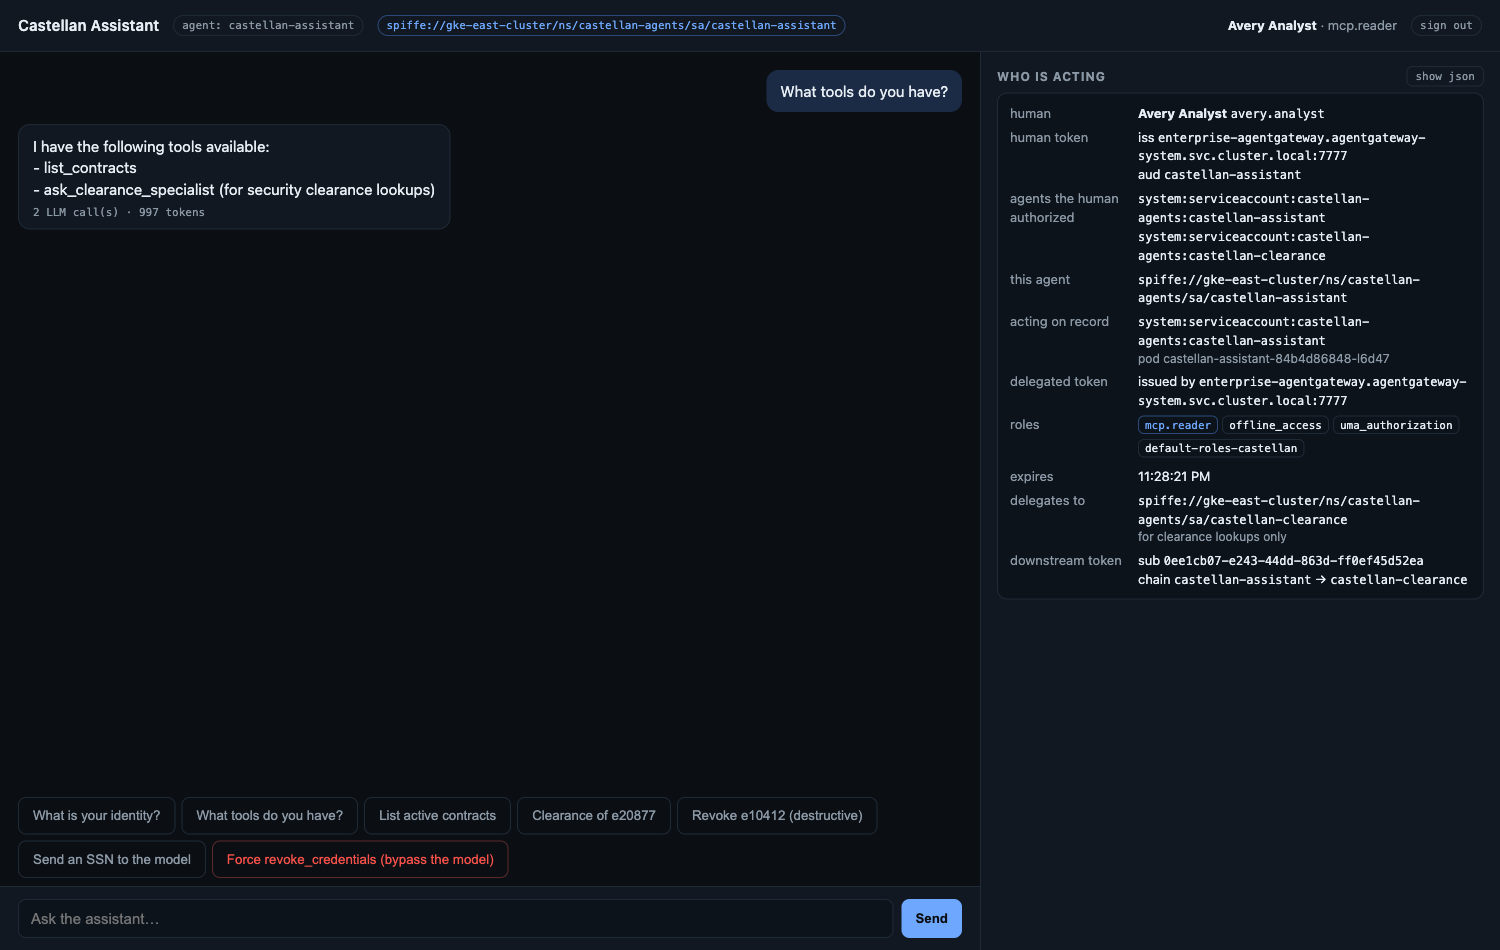
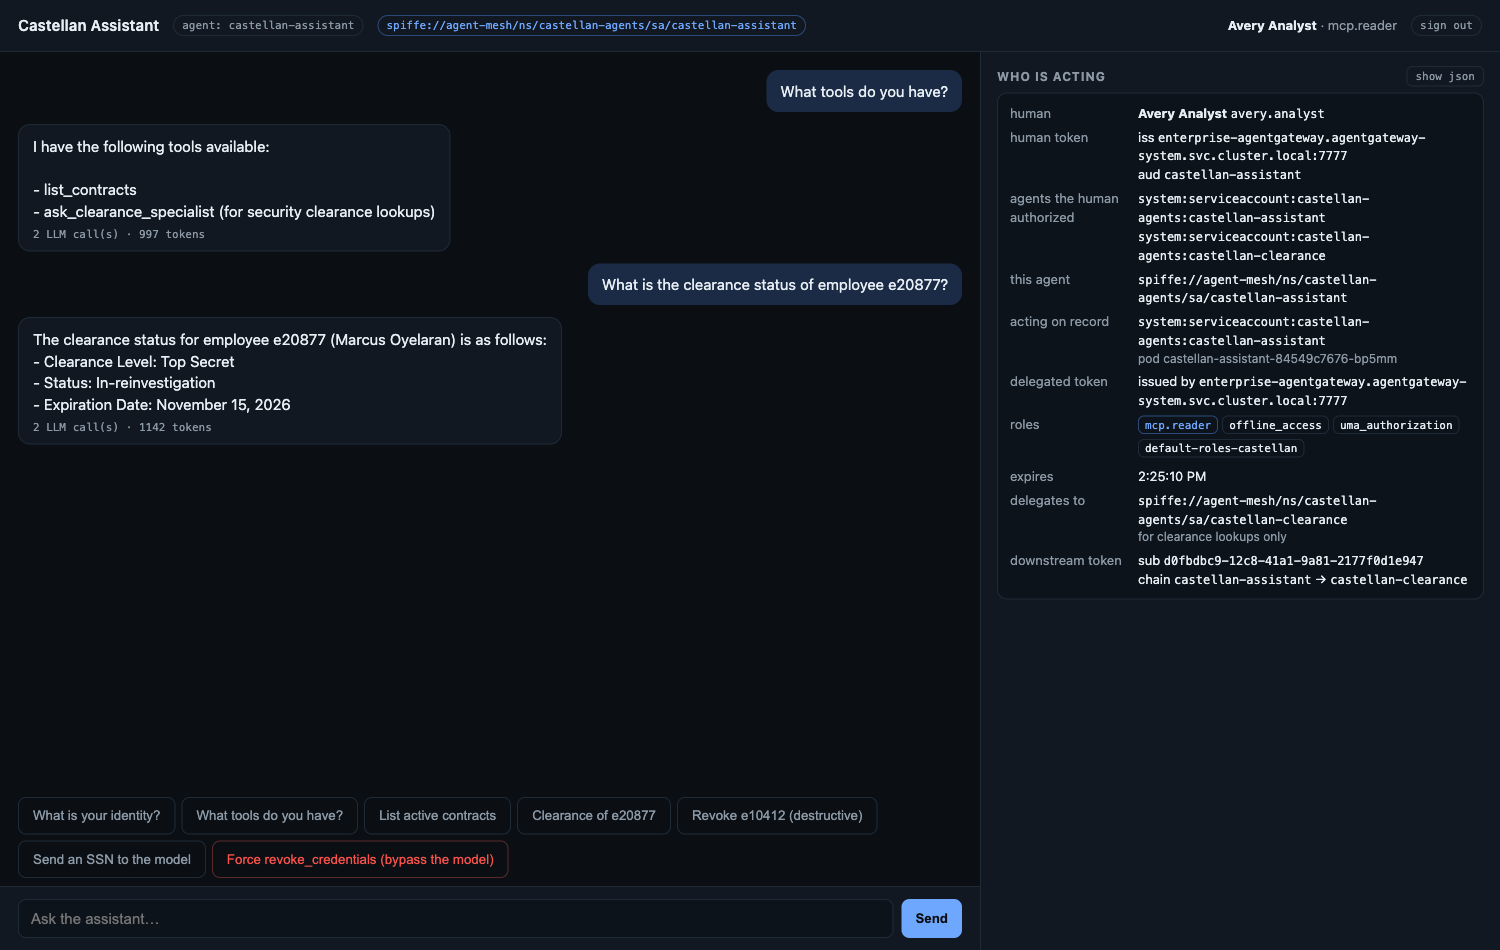
Screenshots from a fresh kind install; service graph

diff --git a/README.md b/README.md
@@ -40,13 +40,11 @@ watch the effect in the browser.
 | ![Budget exhausted in the chat](docs/screenshot-chat-budget-429.png) | ![Creating a budget in the Solo UI](docs/screenshot-solo-ui-create-budget.png) |
 | **Budget spent.** Once the agent's token budget is used up, LLM calls get a 429. | **Budgets in the Solo UI.** A per-agent token budget is a form in Cost Management. |
 | ![Cost Management dashboard](docs/screenshot-solo-ui-cost-management.png) | ![Tracing list in the Solo UI](docs/screenshot-solo-ui-tracing.png) |
-| **Cost tracking.** Cost Management counts tokens, requests and estimated spend for every LLM call. | **Every call traced.** The waypoints record each MCP and LLM call. |
+| **Cost tracking.** Cost Management counts tokens, requests and estimated spend for every LLM call, using the demo's inflated model prices. | **Every call traced.** The waypoints record each MCP and LLM call. |
 | ![One span with workload, user and agent](docs/screenshot-solo-ui-trace-detail.png) | ![A span showing the agent chain](docs/screenshot-v3-trace-chain.png) |
-| **Who did what.** One span carries the workload identity, the user, the agent and the tool. | **Agent-to-agent.** The clearance lookup's span shows the chain: assistant, then specialist. |
-| ![Prompt and completion on an LLM span](docs/screenshot-solo-ui-trace-prompt.png) | |
-| **What was asked.** LLM spans carry the prompt and the completion text. | |
-
-Some screenshots come from an earlier version of the chat UI with extra panels on the right. The behavior is the same.
+| **Who did what.** One span carries the workload identity, the user, the agent and the tool. | **Agent-to-agent.** The clearance lookup is called by the specialist (`src.identity`), for the user, with the agent chain recorded on the span. |
+| ![Prompt and completion on an LLM span](docs/screenshot-solo-ui-trace-prompt.png) | ![Service graph, infrastructure view](docs/screenshot-mesh-graph-workloads.png) |
+| **What was asked.** LLM spans carry the prompt and the completion text. | **Service graph.** The Istio view: ingress to the agents, the agents' waypoint, the clearance specialist, and the tools waypoint in front of the MCP server. |
 
 ## Architecture
 
@@ -113,7 +111,7 @@ browser.
 | Chat | http://localhost:8080 | Sign in as `avery.analyst` (role `mcp.reader`) or `morgan.admin` (role `mcp.admin`). The password for both is `Castellan-Demo-2026`. **sign out** in the header switches users. |
 | Shadow agent | http://localhost:8081 | Same login, a different agent that no user authorized. |
 | Solo UI | http://localhost:4000/age/ | Tracing, Cost Management (budgets, model cost catalog), Gateways, Policies. |
-| Service graph | http://localhost:4000/ie/graph | The Istio view of the same Solo UI. Group by **Workload**. |
+| Service graph | http://localhost:4000/ie/graph | The Istio view of the same Solo UI. Group by **Workload**, and set Topology to **Infrastructure** to see the ingress and the waypoints. |
 
 The settings, including the cluster name (`CLUSTER_NAME`, default `agent-mesh`), live in
 `scripts/00-env.sh`. They can be overridden from your shell.
